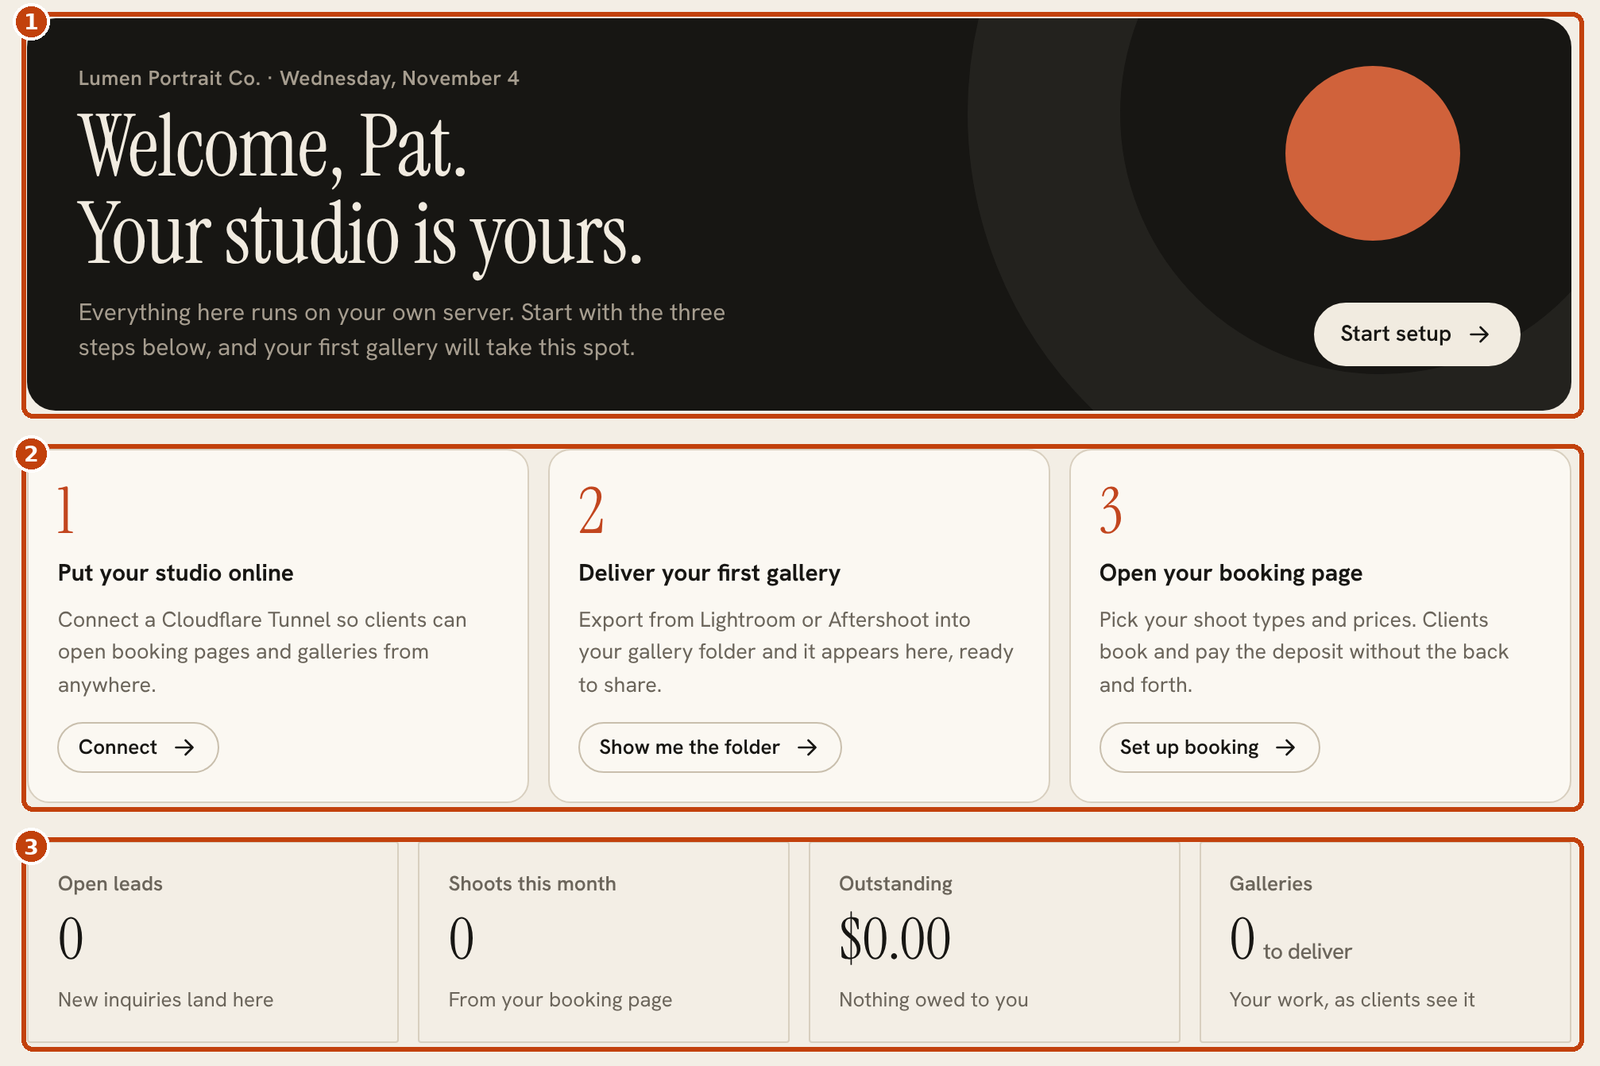
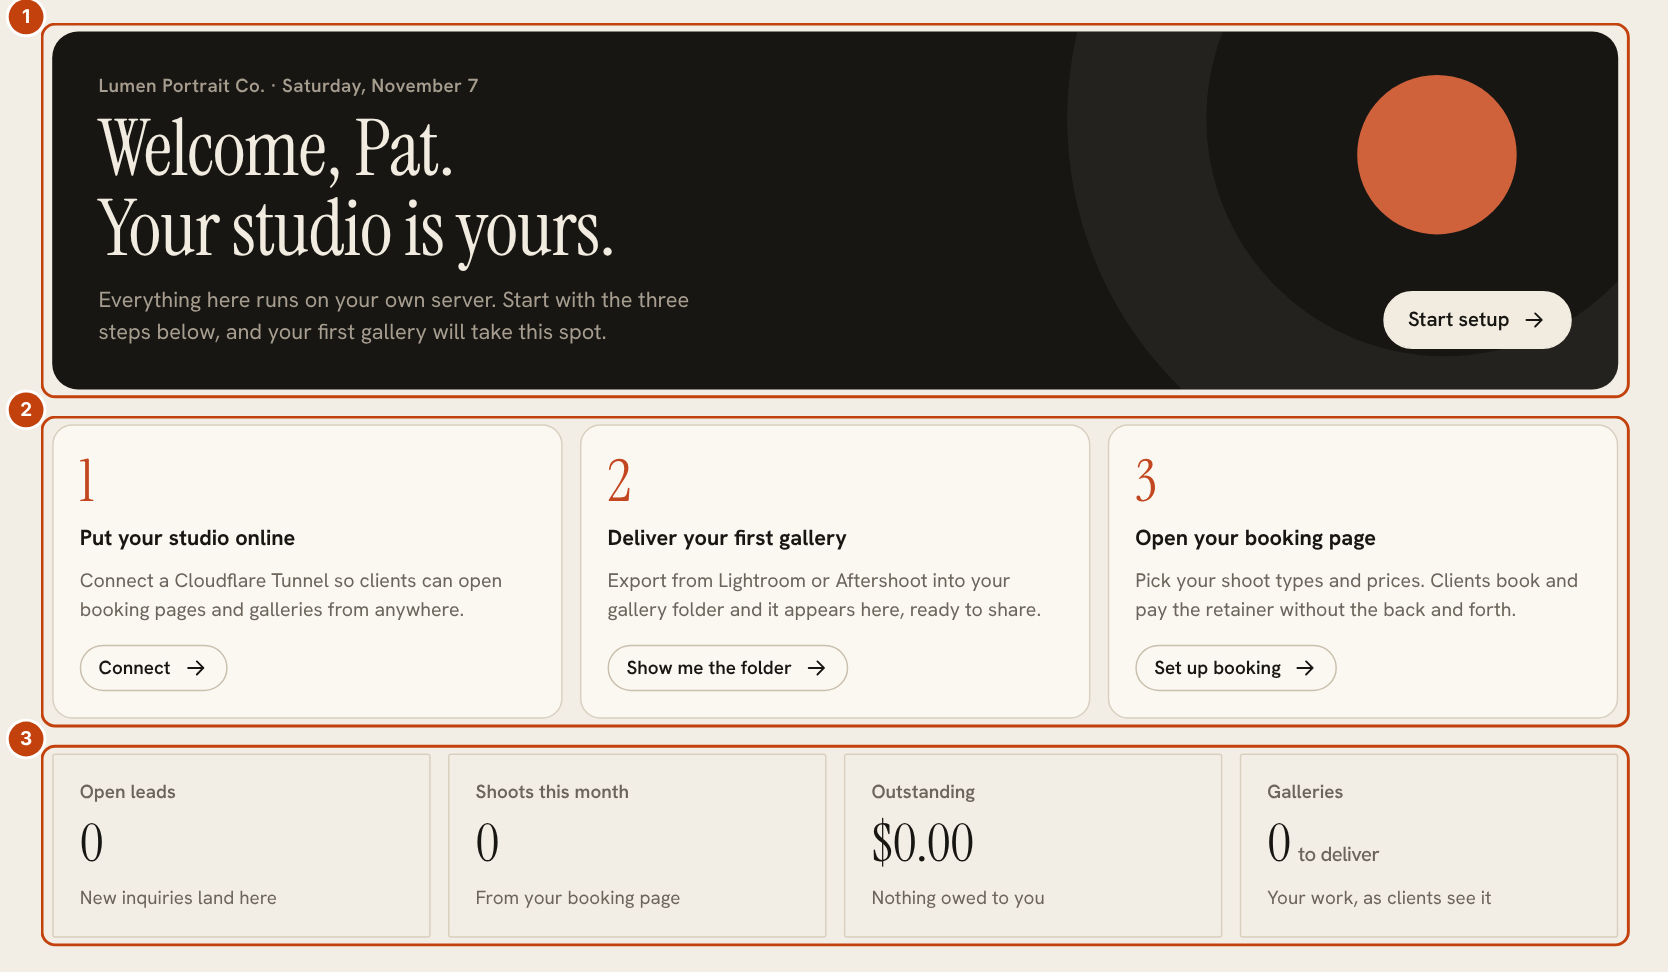
Docs: retainer wording in Home screenshots, and the send-once email note (#131)
Claude-Session: https://claude.ai/code/session_018upz6jXpJttvq6zS9BbNcx

diff --git a/docs/galleries-guide.md b/docs/galleries-guide.md
@@ -22,6 +22,8 @@ flowchart LR
 2. **Export into `Gallery/`.** From Lightroom, Aftershoot or any editor, export JPEGs there. Exporting straight into the folder needs your computer to reach the server's share, which is not possible if OpenPortrait is hosted remotely (see [Hosting remotely](install-docker.md#known-issue-hosting-openportrait-remotely)); upload instead. Each subfolder becomes a set, for example `Highlights` and `Full Gallery`. Folders starting with `_` or `.` and RAW files are never shown.
 3. **Review the draft.** The gallery appears under **Galleries** when the folder has been quiet for a moment. Pick a cover photo and check the sets.
 4. **Publish.** Click **Publish and email client**, choose the download options below, and send the link.
+
+   Each email to a client is sent at most once, even after a restart or crash. If sending was cut off midway, the gallery's email list shows **Check Sent folder** instead of sending again: look in your mail account's Sent folder, and if it isn't there, send it again yourself.
 5. **After that.** Photos you add later appear straight away. Favorites arrive on the gallery's Favorites tab, and every view and download is on its Activity tab.
 
 ## Choose who can open it
